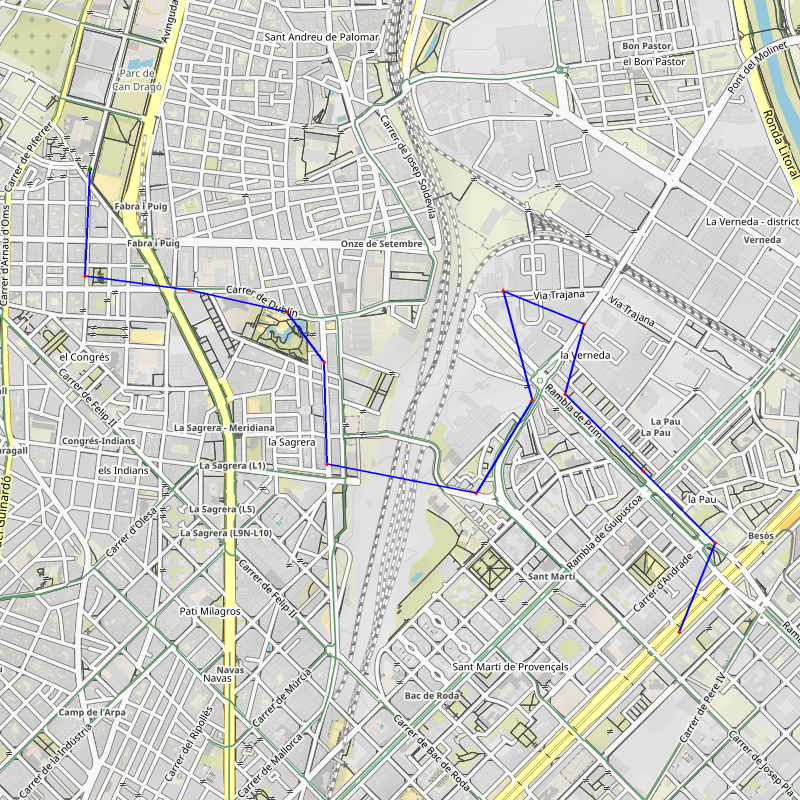
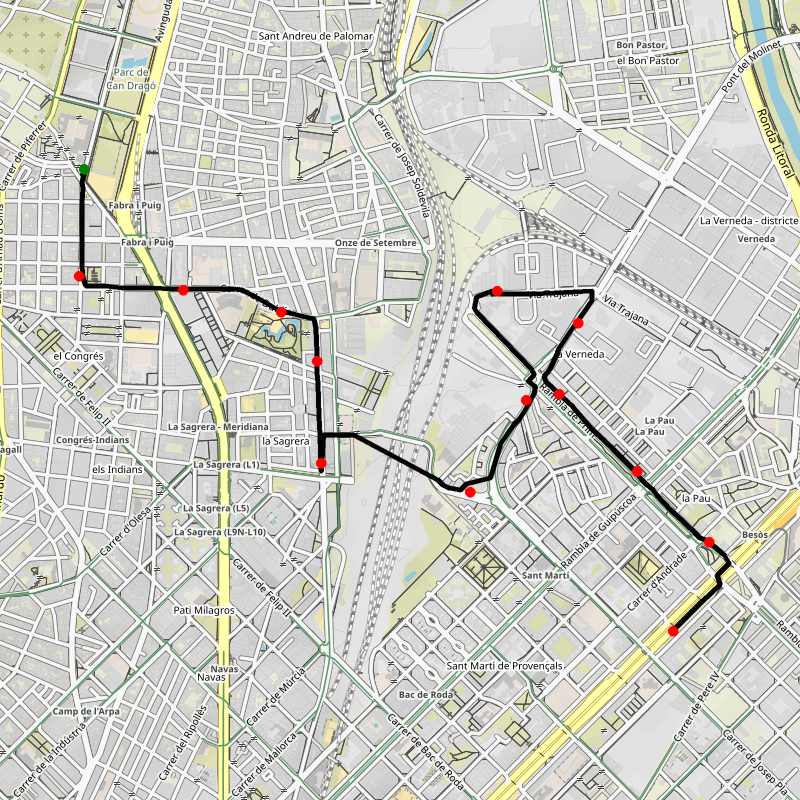
bus path plot generation with intersections

diff --git a/city2.py b/city2.py
@@ -10,7 +10,8 @@ from geopy.distance import geodesic
 from buses import BusesGraph, get_buses_graph
 from haversine import haversine, Unit
 import matplotlib.pyplot as plt
-from staticmap import StaticMap, CircleMarker, Line
+from staticmap import StaticMap, CircleMarker, Line, IconMarker
+from PIL import Image, ImageDraw, ImageFont
 
 from typing import List, Union
 
@@ -141,20 +142,23 @@ def get_stop_subgraph(g: CityGraph) -> CityGraph:
     
     return stop_subgraph
 
+def get_intersection_subgraph(g: CityGraph) -> CityGraph:
+    # Get all nodes of type 'intersection'
+    intersection_nodes = [node for node, data in g.nodes(data=True) if data.get('type') == 'intersection']
+    
+    # Create a subgraph from the original graph using only these nodes
+    intersection_subgraph = g.subgraph(intersection_nodes)
+    
+    return intersection_subgraph
+
 def find_path(g: CityGraph, dst: Coord, src: Coord) -> List[Coord]:
     # Find nearest nodes to the source and destination coordinates in the original osmnx graph
     #print the first node and edge in g
     buses_graph = get_buses_graph()
-    first_node = list(g.nodes(data=True))[0]
-    first_edge = list(g.edges(data=True))[0]
-    print('first_node: ', first_node)
-    print('first_edge: ', first_edge)
     
     dst_nearest = distance.nearest_nodes(buses_graph, src[1], src[0])
     src_nearest = distance.nearest_nodes(buses_graph, dst[1], dst[0])
     
-    print('src_nearest: ', src_nearest)
-    print('dst_nearest: ', dst_nearest)
 
     # Calculate the shortest path in the city graph
     try: 
@@ -181,9 +185,9 @@ def plot(g: CityGraph, filename: str) -> None:
     m = StaticMap(800, 800)
     for node in g.nodes:
         if g.nodes[node]['type'] == 'intersection':
-            m.add_marker(CircleMarker((g.nodes[node]['x'], g.nodes[node]['y']), 'green', 2))
+            m.add_marker(CircleMarker((g.nodes[node]['y'], g.nodes[node]['x']), 'green', 2))
         elif g.nodes[node]['type'] == 'stop':
-            m.add_marker(CircleMarker((g.nodes[node]['x'], g.nodes[node]['y']), 'red', 3))
+            m.add_marker(CircleMarker((g.nodes[node]['y'], g.nodes[node]['x']), 'red', 3))
         
     for edge in g.edges:
         edge_type = g.nodes[edge[0]]['type']
@@ -194,35 +198,44 @@ def plot(g: CityGraph, filename: str) -> None:
         else:
             color = 'black'  # Default color if type is not defined
         
-        m.add_line(Line([(g.nodes[edge[0]]['x'], g.nodes[edge[0]]['y']), (g.nodes[edge[1]]['x'], g.nodes[edge[1]]['y'])], color, 1))
+        m.add_line(Line([(g.nodes[edge[0]]['y'], g.nodes[edge[0]]['x']), (g.nodes[edge[1]]['y'], g.nodes[edge[1]]['x'])], color, 1))
     
     image = m.render()
     image.save(filename)
     
     
 
+def create_icon(text: str, font_path: str, font_size: int, filename: str):
+    font = ImageFont.truetype(font_path, font_size)
+    text_width, text_height = font.getsize(text)
+    img = Image.new('RGBA', (text_width, text_height), (255, 255, 255, 0))
+    d = ImageDraw.Draw(img)
+    d.text((0,0), text, font=font, fill=(255,255,255,255))
+    img.save(filename)
 
 
 def plot_path(g: CityGraph, p: List[Coord], filename: str) -> None:
-    # Initialize the map
+    osmnx_g = get_osmnx_graph()
     m = StaticMap(800, 800)
 
-    # Add markers for nodes and lines for edges in the path
     for i in range(len(p) - 1):
-        # (longitude, latitude)
-        
-        m.add_marker(CircleMarker((g.nodes[p[i]]['x'], g.nodes[p[i]]['y']), 'red', 3))
-        m.add_line(
-            Line([(g.nodes[p[i]]['x'], g.nodes[p[i]]['y']), (g.nodes[p[i + 1]]['x'], g.nodes[p[i + 1]]['y'])], 'blue', 2))
+        #name of the stop line
+        #g.nodes[p[i]]['line']
+        m.add_marker(CircleMarker((g.nodes[p[i]]['x'], g.nodes[p[i]]['y']), 'red', 10))
+
+        # Shortest path in osmnx graph between current and next node
+        # Ensure you get the shortest path with the proper format (x,y) which can be achieved by using osmnx_g.nodes[node]['y'] and osmnx_g.nodes[node]['x']
+        #g nodes y is 2.20 and x is 41.40
+        src_nearest = distance.nearest_nodes(osmnx_g, g.nodes[p[i]]['x'], g.nodes[p[i]]['y'])
+        dst_nearest = distance.nearest_nodes(osmnx_g, g.nodes[p[i+1]]['x'], g.nodes[p[i+1]]['y'])
+
+        shortest_path_osmnx = shortest_path(osmnx_g, src_nearest, dst_nearest, weight='length')
+        path_as_coordinates_osmnx = [(osmnx_g.nodes[node]['x'], osmnx_g.nodes[node]['y']) for node in shortest_path_osmnx]
+        m.add_line(Line(path_as_coordinates_osmnx, 'black', 5))
 
     # Add a marker for the final destination
-    # (longitude, latitude)
-        
-
-
-    # Render the image and save it
     try:
-        m.add_marker(CircleMarker((g.nodes[p[-1]]['x'], g.nodes[p[-1]]['y']), 'green', 4))
+        m.add_marker(CircleMarker((g.nodes[p[-1]]['x'], g.nodes[p[-1]]['y']), 'green', 10))
         image = m.render()
         image.save(filename)
     except IndexError:
@@ -232,7 +245,9 @@ def plot_path(g: CityGraph, p: List[Coord], filename: str) -> None:
         print('Error while plotting path:', e)
         return
 
-graph = get_city_graph()
+#graph = get_city_graph()
 
-#show(graph)
-plot(graph, 'city_graph.png')
+#stop_subgraph = get_stop_subgraph(graph)
+#osmng_g = get_osmnx_graph()
+#show(osmng_g)
+#plot(graph, 'city_graph.png')

diff --git a/README.md b/README.md
@@ -13,6 +13,7 @@ pip3 install folium networkx matplotlib osmnx staticmap haversine
 pip3 install beautifulsoup4 requests lxml
 pip3 install geopy geopandas
 pip3 install scikit-learn
+pip3 install pillow
 '''
 
 Descargar e instalar graphviz de https://www.graphviz.org/download/https://www.graphviz.org/download/
